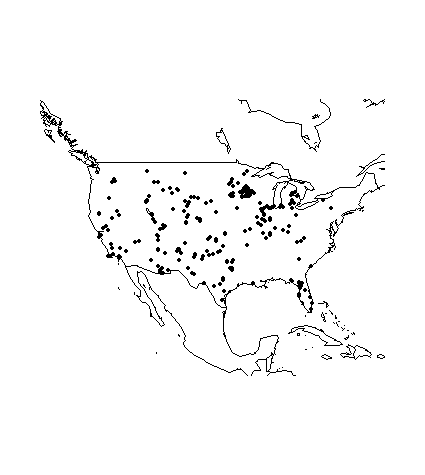
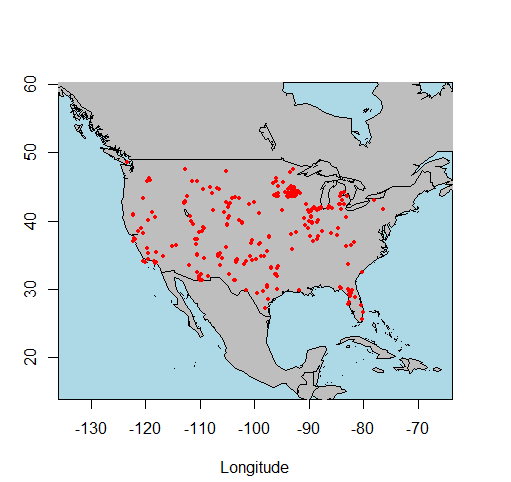
Fixing `README.md` to resolve issue #97.
* Changing the plotting for both the mammoth and publication example.
* Changes to `get_publication` to improve `data.frame` behavior by setting `stringsAsFactors=FALSE`.
*  New plots for mammoth and publications.

diff --git a/README.md b/README.md
@@ -50,13 +50,31 @@ require(neotoma)
 #### Find the distribution of sites with Mammoth fossils in Neotoma
 
 ```coffee
-#  Example requires the plyr package and the mapdata package:
-require(plyr)
-test <- get_datasets(taxonname='Mammuthus*')
+#  Example requires the mapdata package:
+library('mapdata')
+
+#  You may use either '%' or '*' as wildcards for search terms:
+test <- get_dataset(taxonname='Mammuthus*')
+
 The API call was successful, you have returned  3273 records.
-site.locs <- ldply(test, function(x)x$Site)
-map('world', xlim=range(site.locs$LongitudeWest)+c(-10, 10), ylim=range(site.locs$LatitudeNorth)+c(-10, 10))
-points(site.locs$LongitudeWest, site.locs$LatitudeNorth, pch=19, cex=0.5)
+
+site.locs <- get_site(dataset = test)
+
+# A crude way of making the oceans blue.
+plot(1, type = 'n', 
+     xlim=range(site.locs$long)+c(-10, 10), 
+     ylim=range(site.locs$lat)+c(-10, 10),
+     xlab='Longitude', ylab = 'Latitude')
+rect(par("usr")[1],par("usr")[3],par("usr")[2],par("usr")[4],col = "lightblue")
+map('world', 
+    interior=TRUE,
+    fill=TRUE,
+    col='gray',
+    xlim=range(site.locs$long)+c(-10, 10), 
+    ylim=range(site.locs$lat)+c(-10, 10),
+    add=TRUE)
+
+points(site.locs$long, site.locs$lat, pch=19, cex=0.5, col='red')
 
 ```
 ![thing](inst/img/mammothsites.png)
@@ -65,15 +83,19 @@ points(site.locs$LongitudeWest, site.locs$LatitudeNorth, pch=19, cex=0.5)
 
 ```R
 # Requires ggplot2
-library(ggplot2)
+library('ggplot2')
+library('plyr')
 pubs <- get_publication()
-ggplot(data=data.frame(x = pub.years), aes(x)) +
+
+pub.years <- ldply(pubs, "[[", "meta")
+
+ggplot(data=pub.years, aes(x = Year)) +
      stat_bin(aes(y=..density..*100, position='dodge'), binwidth=1) +
      theme_bw() +
      ylab('Percent of Publications') +
      xlab('Year of Publication') +
      scale_y_continuous(expand = c(0, 0.1)) +
-     scale_x_continuous(breaks = seq(min(pub.years, na.rm=TRUE), 2013, by=20))
+     scale_x_continuous(breaks = seq(min(pub.years$Year, na.rm=TRUE), 2014, by=20))
 
 ```
 
